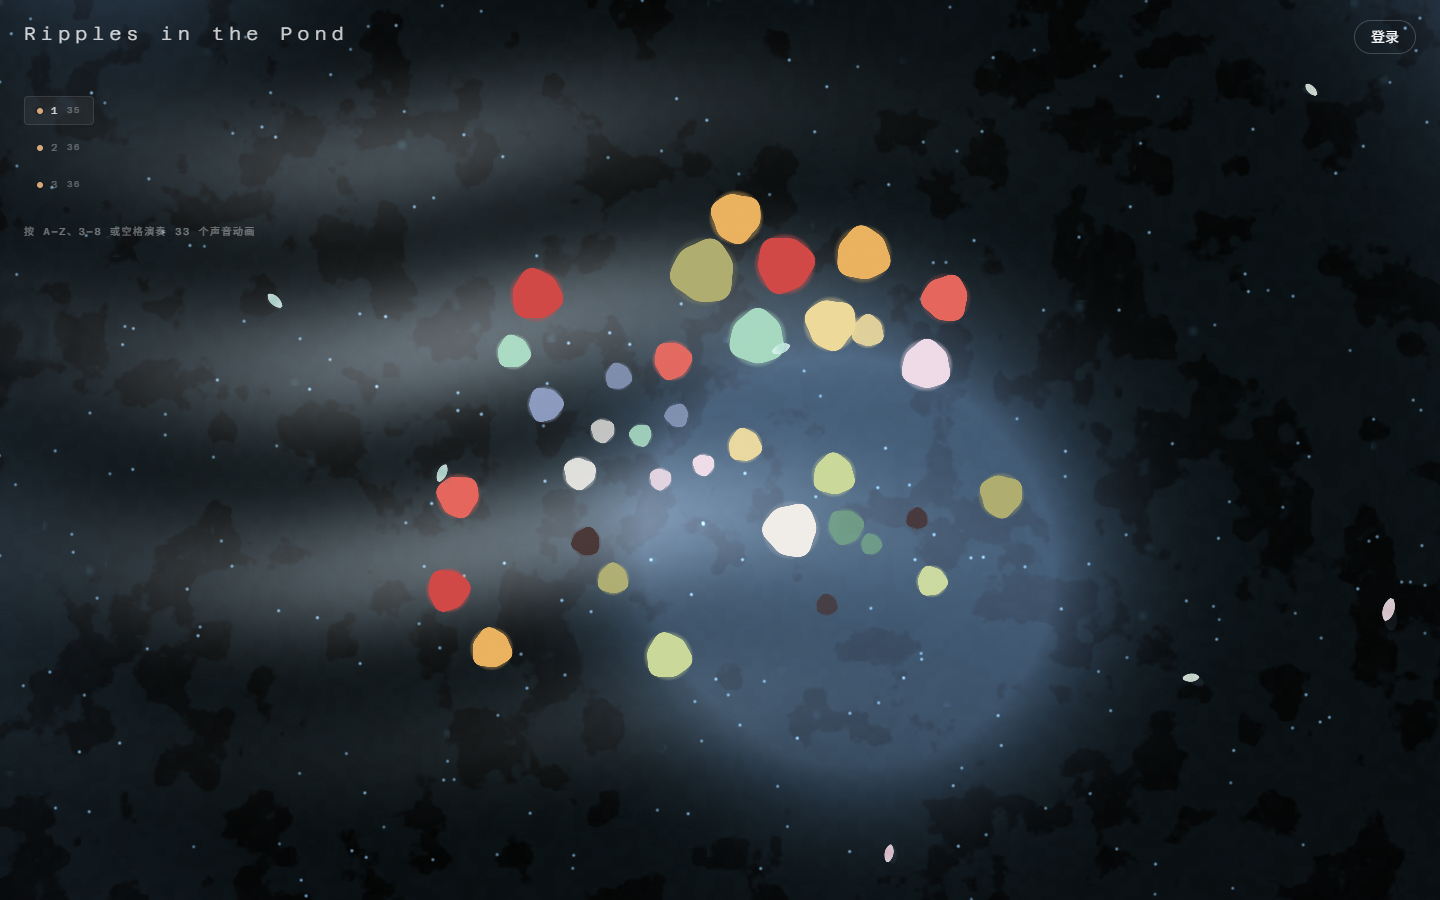
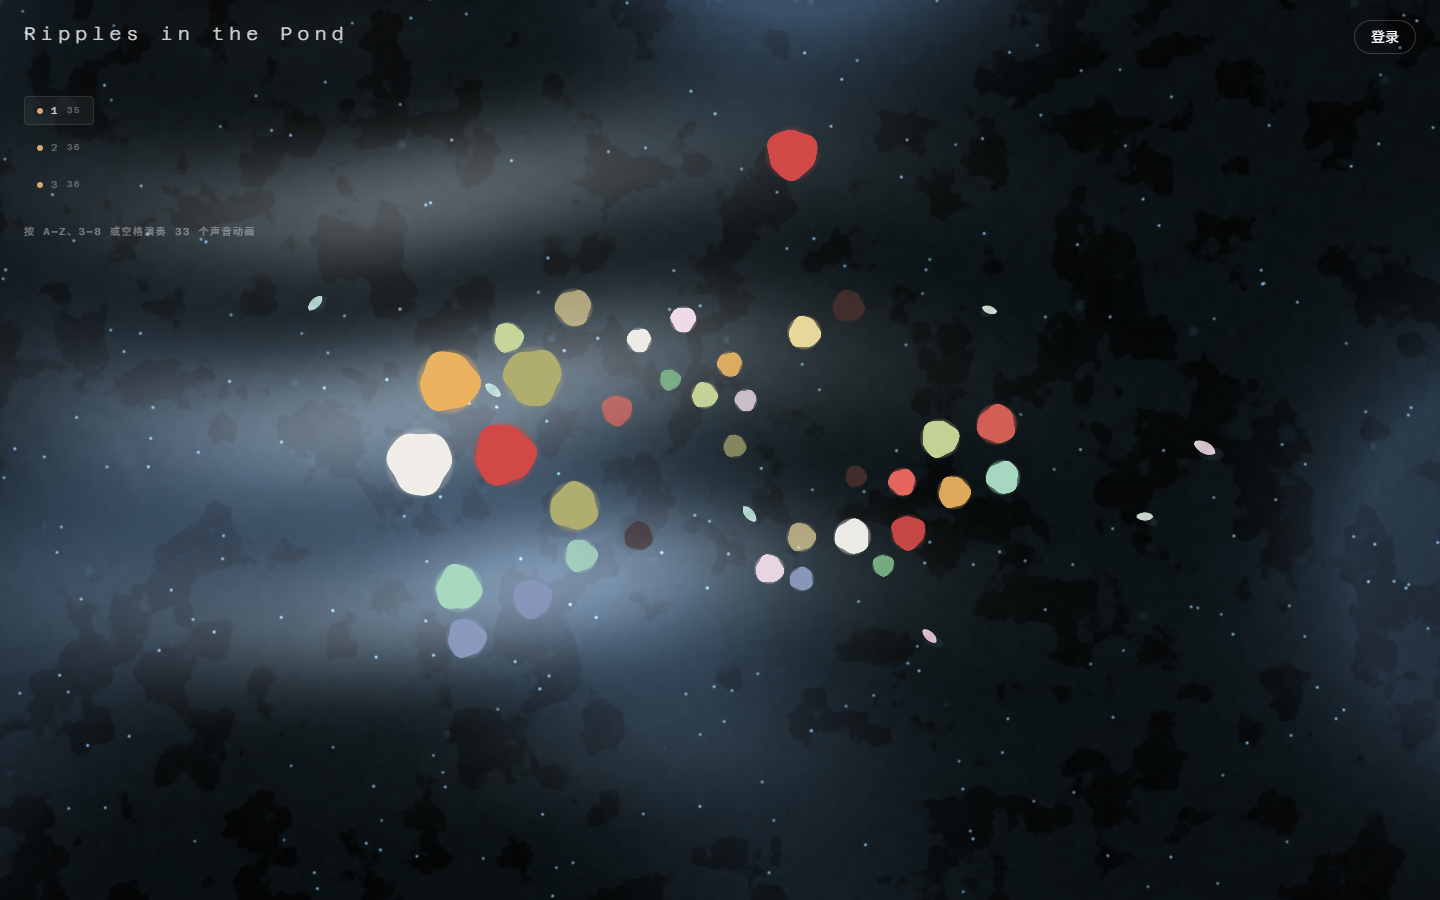
docs(P9): 正式封存阶段并补齐最终证据

diff --git a/STATUS.md b/STATUS.md
@@ -18,7 +18,7 @@
   - **Phase 14** = 混音系统 + RemixNFT
   - **Phase 15** = 音效系统扩展
   - **Phase 16** = 原生钱包 + 多链 / ETH Mainnet（往后排）
-**P9 系统性 Review 最终稿**：`reviews/2026-09-01-phase-9-final-review.md`（交叉复核 DeepSeek v4 Pro、Kimi K3 与当前代码。原结论为 0 P0、3 P1、8 P2、6 P3；E“引力透镜轨道”与 R“花瓣原地炸裂”按用户拍板作为当前真值。Review Fix Pack A+B+C 已在 v4.2 全部完成，最终生产证据见 `reviews/2026-09-01-phase-9-v4-2-final-gate.md`。）
+**P9 最终完成 Review**：`reviews/2026-09-05-phase-9-completion-review.md`（阶段结论：33 键 / 33 唯一音效 / 33 生产动画，0 个 P9 遗留项，正式封存。2026-09-01 的系统性 review 与 Fix Pack 清单只保留为历史输入，最终生产证据见 `reviews/2026-09-01-phase-9-v4-2-final-gate.md`。）
 **P8 综合系统性 Review**：`reviews/2026-08-25-phase-8-consolidated-review.md`（汇总 Kimi K3 + Codex 并完成交叉验证；严格排除其他 Phase、媒体与 commit 收束。结论：0 个 P0、3 个 P1、7 个 P2。**3 个 P1、7 个 P2、死文件、文档契约、双树清单与自动浏览器回归均已完成**：专项代码与每步完整 `verify.sh` 全绿；Edge 实测四路由、fallback/context、wheel、拖拽取消、键盘、reduced-motion、横竖屏、DPR `2→1.5→2` 与 waterFx 连续切换全部通过。证据见 `reviews/2026-08-26-phase-8-browser-regression.md` 与 `reviews/2026-08-26-phase-8-dual-tree-inventory.md`。**2026-08-26 用户已确认 R3 与 L 线“活而不乱”最终目验通过，并明确让当前 `/test3` 替代首页；默认 `/` 已切为 GL 水塘，沙盒工具仅留 `/test3`/`/test4`，旧 SVG 由 `/v1` 保留。**原始 Kimi 报告保留在 `reviews/2026-08-25-phase-8-review.md`。）
 **P7 Completion Review**: `reviews/2026-05-16-phase-7-completion-review.md`（commit `5a2211a`，结论：Phase 7 完结，deferred 项挂 Phase 10）
 **P7 三方 review**：`reviews/2026-05-13-phase-7-playbook-review.md`（Claude 自审 + 2 个 Codex review，16 项必修已全部落地）
@@ -26,7 +26,7 @@
 **P6 Smoke Test**: `reviews/2026-05-08-phase-6-completion-smoke-test.md`（16/19 通过 + 0 P0 + 0 P1）
 **stakeholder 反馈**：艺术家 5 条反馈已收到（→ Phase 8）；投资人催 Semi demo（→ P7 Track B PoC-only）
 
-**P9 完成（2026-09-01）**：v4.2 Review Fix Pack A+B+C 已部署 Production，生产注册表收束为 33 键/33 音效/33 动画；`/` 与 `/test3` 共用同一 P9 演奏层，首页不显示 P9 状态浮窗，调参面板仍只留在 `/test3`。静态审计、浏览器 33 键扫描、复音/回收/reduced-motion/60 FPS 压测、合并后完整 `scripts/verify.sh` 和 `pond-ripple.xyz` 线上冒烟全绿，证据见 `reviews/2026-09-01-phase-9-v4-2-final-gate.md`。后续新增体感反馈按独立热修处理，不再占阶段 Next。
+**P9 正式封存（2026-09-05）**：v4.2 Review Fix Pack A+B+C、Track C 清理、首页同步和 Production 发布全部完成；生产注册表为 33 键/33 唯一音效/33 动画。`/` 与 `/test3` 共用演奏层，首页不显示 P9 状态浮窗，调参面板只留在 `/test3`。2026-09-05 再次完成静态审计和 `pond-ripple.xyz` 线上真实键盘冒烟，P9 遗留项为 0；后续反馈按独立热修处理，不再占阶段 Next。
 
 **P11 当前（2026-09-01）**：P11-0 盘点与完整 playbook 已完成，入口见 `playbook/phase-11/00-overview.md`，证据与 11 个界面层清单见 `reviews/2026-09-01-phase-11-design-inventory.md`。方向为“夜塘唱片册”；首页夜塘/P9 核心冻结；`/score/[id]` 采用 Decoder-first；`/artist` 暂以 108 首长期项目为主角。**下一步：先处理 Decoder-first 与 `docs/ARCHITECTURE.md` 现有 inline `ScorePlayer` 规则的冲突；未获得明确架构同步授权前，不进入 P11-B 代码。**
 
@@ -239,6 +239,12 @@
 - `app/api/` 硬线豁免缺失：hook 只认 `src/app/api/`，当前 app/api/ 接近 8 上限，新 route 考虑复用现有子目录（见 S5.c 放 `cron/queue-status/`）
 
 ## 上次成功验证
+
+- 验证: **P9 最终收尾、证据复验与阶段封存完成**
+- 时间: 2026-09-05
+- 改动: 建立 P9 唯一最终入口与 completion review；历史 playbook/review 标注为归档；刷新可复现静态审计、生产截图和真实键盘冒烟证据。
+- 验证证据: 33 键/33 唯一音效/33 动画、20 个独立效果/13 个日食效果、月光写入 0；生产 `/`、`/test3`、`/api/ping` 均为 HTTP 200，K 键成功触发 FX11，非日食状态 A 键按契约拒绝，首页无 P9 浮窗与调参面板。
+- 下一步: **P9 无下一步；项目继续以 P11 的 Decoder-first 架构同步授权为唯一 Now。**
 
 - 验证: **工作树堆积收口 + P12 最终关闭 + P11 playbook 迁移完成**
 - 时间: 2026-09-01

diff --git a/reviews/2026-09-05-phase-9-completion-review.md b/reviews/2026-09-05-phase-9-completion-review.md
@@ -1,0 +1,57 @@
+# Phase 9 Completion Review
+
+> 日期：2026-09-05
+> 范围：日食合奏 33 键动画的设计、实现、清理、首页同步、部署与封存
+> 最终裁决：**Phase 9 完成，0 个未关闭阶段项**
+
+## 1. 关闭结论
+
+Phase 9 已从 45 个候选经过 v2/v3/v4 多轮用户目验，收束为 33 键、33 个唯一音效和 33 个生产动画。Review Fix Pack A+B+C、Track C 物理清理、首页同步、状态浮窗移除、完整工程 Gate、Production 部署和生产复验均已完成。
+
+旧 review 中的 3 个 P1、8 个 P2、6 个 P3 是 2026-09-01 v4.1 的修复输入，不是现存缺陷。它们已由 v4.2 的参数接线、运行时稳定性、物理清理和最终证据逐项关闭。
+
+## 2. 最终数量账本
+
+| 项目 | 最终值 | 证据 |
+|---|---:|---|
+| 生产 registry | 33 | `static-audit.json` |
+| 唯一 sound key | 33 | registry 静态审计 |
+| 唯一 MP3 内容 | 33 | SHA-256 静态审计 |
+| 日食依赖 | 13 | registry 静态审计 |
+| 无音乐独立效果 | 20 | 静态 + 浏览器扫描 |
+| 月光写入 | 0 | registry 静态审计 |
+| 水面写入键 | 3 | T/U/V |
+| 正式路由 | 2 | `/` 与 `/test3` 共用 P9 |
+
+## 3. 连续演奏与性能证据
+
+- 播放音乐后 33/33 键 accepted，动画 ID 33/33 unique。
+- B 六批完整并行；V 五浪；FX44 五簇；R 峰值 5 场且结束后归零。
+- X/6 连击使用独立补充声部，不把衰退包络拉回峰值。
+- H/3 共用 180ms 全屏重音冷却，8 不受阻塞，声音不被视觉冷却吞掉。
+- 浏览器 121 帧只推进 122 次 P9 采样，五个消费者不重复推进状态机。
+- reduced-motion 空间位移比例约 22%，生命周期与回收保持正常。
+- 压力测试结束后 voice 与 burst field 均为 0；前台 `60.24 FPS`；控制台异常 0。
+
+## 4. 生产与 2026-09-05 复验
+
+- P9 实现提交：`b4a0894`；最终证据提交：`bce3171`。
+- Vercel Production 部署已成功，首页与 `/test3` 均返回 HTTP 200，`/api/ping` 返回 `ok=true`。
+- 2026-09-05 当前生产提交 `0c01dd6` 的 GitHub deployment `6194128487` 明确为 Production。
+- 当日重新运行静态审计：registry 33、sounds 33、13/20 门控、月光 0、水面 T/U/V，全部通过。
+- 当日真实浏览器复验：首页 HUD=false、调参面板=false、33 动画提示存在；K→FX11 accepted，A→FX01 `no-eclipse`；Runtime/console error=0。
+- 当日隔离工作树完整执行 `bash scripts/verify.sh`：TypeScript、ESLint、代码/目录硬线、危险模式、33/33 静态页生产构建和 Forge 42/42 全部通过；ESLint 只有 3 条既有 warning、0 error。
+
+## 5. 善后审计
+
+- 生产源码不存在 `P9ReviewHUD`、`p9-direction-lab` 或旧 `key-fx` 文件。
+- 12 个淘汰候选只留在历史 playbook/review，不再进入 registry、面板或消费者。
+- P9 过程截图和原始参考素材保持本地归档并由 Git 忽略；`reviews/evidence/p9-v4-2/` 是唯一入库的 P9 最终证据目录。
+- 旧 v1/v2/v3/v4 review 与 playbook 已加归档标识，避免把历史“等待目验/等待 Track C”误读为当前任务。
+- 最终执行入口为 `playbook/phase-9/04-final-closure.md`；未来 P9 回归使用独立热修，不重开 Phase 9。
+
+## 6. 未关闭项
+
+**无。**
+
+后续用户提出的审美调整属于新一轮产品迭代；新增声音、键位或视觉家族进入后续 Phase，不计作本阶段欠账。

diff --git a/playbook/phase-9/04-final-closure.md b/playbook/phase-9/04-final-closure.md
@@ -1,0 +1,58 @@
+# Phase 9 — 最终封存说明
+
+> 封存日期：2026-09-05
+> 生产页面：`https://pond-ripple.xyz/`
+> 阶段状态：**完成，不再有 P9 待办**
+
+## 1. 唯一最终真值
+
+- 物理输入：`A–Z + 3–8 + Space`，恰好 33 键。
+- 声音：`public/sounds/` 恰好 33 个 MP3，SHA-256 内容互不重复。
+- 动画：生产 registry 恰好 33 项，每个 sound key 唯一映射一个 FX。
+- 日食门控：20 个独立效果无音乐可演奏；13 个日食依赖效果无音乐时只跳过视觉，声音照常播放。
+- 环境边界：月光写入为 0；水面写入只允许 T/U/V。
+- 路由：`/` 与 `/test3` 共用同一 P9 runtime、registry、消费者和参数存档。
+- UI：首页不显示 P9 状态 HUD 或调参面板；`/test3` 保留参数面板。
+
+最终映射、参数和七类重触发语义以 `03-v4-33-key-audiovisual-remap.md` §12 为准。
+
+## 2. 已完成的工程收束
+
+- Review Fix Pack A：参数真值、存档迁移、V/5 上限、Y 阻尼和文档合同已统一。
+- Review Fix Pack B：X/6 补充声部、H/3 全局冷却、R 场回收、FX44 独立群落、同帧采样缓存和 reduced-motion 已完成。
+- Review Fix Pack C：12 个冻结候选、旧 `key-fx` 总线、方向实验状态、失效模式和无消费者参数已物理退出生产源码。
+- P9 状态浮窗已删除；`/test3` 调参工具与首页生产 UI 已分离。
+- 历史过程证据退出 Git；仓库只保留 v4.2 最终静态、浏览器、压力和生产证据。
+
+## 3. 最终证据索引
+
+- Fix Pack 前交叉审查：`reviews/2026-09-01-phase-9-final-review.md`（历史输入，不是当前待办）。
+- v4.2 Gate：`reviews/2026-09-01-phase-9-v4-2-final-gate.md`。
+- 阶段完成裁决：`reviews/2026-09-05-phase-9-completion-review.md`。
+- 机器证据：`reviews/evidence/p9-v4-2/`。
+- 生产实现提交：`b4a0894`；合并与证据链：`2c91db0`、`7bedccd`、`fe179b0`、`bce3171`。
+
+## 4. 冻结边界
+
+以下事项不再作为 P9 待办：
+
+- 不恢复 45/43/42 键的历史中间态。
+- 不恢复 Shift 第二层动画、旧 `key-fx` 总线或 `P9ReviewHUD`。
+- 不因旧 review 的 P1/P2 清单重复执行已经完成的 Fix Pack。
+- 不把调参面板带到首页，也不让普通按键写月光。
+- 不清除用户浏览器已保存的 P9 参数；存档继续按现有迁移合同读取。
+
+未来明确的回归缺陷使用独立 `fix(P9)` 热修；新声音、新键位或新视觉家族进入后续 Phase。任何热修都必须重跑 33 映射、20/13 门控、连击回收、reduced-motion 和生产浏览器冒烟。
+
+## 5. 完成清单
+
+- [x] 用户逐轮审美拍板完成。
+- [x] 33 键、33 音效、33 动画一一对应。
+- [x] 连击、并行、冷却、回收和 reduced-motion Gate 通过。
+- [x] Track C 物理清理完成。
+- [x] `/test3` 同步到 `/`，测试 HUD 从生产 UI 退出。
+- [x] 完整工程验证通过。
+- [x] Vercel Production 部署成功。
+- [x] 2026-09-05 静态真值与生产浏览器复验通过。
+- [x] 历史 playbook/review 已标明归档身份。
+- [x] `STATUS.md`、`TASKS.md`、JOURNAL 与 LEARNING 已同步。

diff --git a/docs/ERRORS.md b/docs/ERRORS.md
@@ -535,3 +535,12 @@
 - 🧠 原因：目录包含 Edge profile、扩展与依赖缓存，部分文件仍受 Windows 进程或权限保护；不是 Git 数据损坏。
 - 🔧 处理：不强删、不换 shell 绕过；只保留可读盘点文档，并把原始缓存目录加入 Git 忽略。其余未占用的 Phase 13 草稿、P9 过程证据和工具记忆按精确路径移动成功。
 - 💡 临时目录的目标是退出版本控制，不一定要物理消失；被系统占用时“保留并忽略”比强制清空更安全。
+
+### E041 — P9 生产冒烟复用浏览器且等待了错误的就绪信号
+
+- 📅 2026-09-05 / P9 最终封存复验
+- 😱 现象：第一次冒烟误连到已有 Edge 实例，随后新实例又因为等待音乐圆按钮而超时；生产页面与接口实际均为 HTTP 200。
+- 🧠 原因：脚本只偏好 localhost 页面，并把音乐按钮是否出现当作 P9 演奏层就绪条件；这两项都不是生产首页的稳定契约。
+- 🔧 修复：按生产域名优先选择 CDP 页面，并以页面出现“33 个声音动画”作为演奏层就绪信号；部署 SHA 改由环境变量注入，脚本不再写死历史版本。
+- ✅ 结果：独立无扩展 Edge 中 K→FX11 成功、A 在无日食时按契约拒绝，首页浮窗与调参面板均不可见，控制台错误为 0。
+- 💡 端到端夹具应等待产品契约而非偶然 DOM，并显式绑定目标域名和被测版本。

diff --git a/playbook/phase-9/00-overview.md b/playbook/phase-9/00-overview.md
@@ -1,6 +1,8 @@
 # Phase 9 — 日食合奏按键动画（45 候选批量制作版）
 
-> **来源**：2026-08-25 用户拍板。本文件取代 P9 早期“先做一个代表家族再扩展”的执行节奏，成为 P9 当前权威 playbook。
+> **归档状态（2026-09-05）**：本文件只保留 Track A 的历史基线，不再是执行入口。Phase 9 已按 33 键生产方案完成、上线并正式封存；最终真值见 `04-final-closure.md`，最终证据见 `reviews/2026-09-05-phase-9-completion-review.md`。
+
+> **来源**：2026-08-25 用户拍板。本文件曾取代 P9 早期“先做一个代表家族再扩展”的执行节奏。
 > **目标**：先在 `/test3` 一口气实现全部 45 个动画候选，再由用户集中审阅、删改，最后收盘冻结正式按键动画。
 > **三段式契约**：Track A = 全部做出；Track B = 用户审阅与修改；Track C = 清理、定稿与冻结。
 > **2026-08-26 状态**：Track A 已完成；Track B 的当前施工权威已切到 `01-v2-shared-state-optimization.md`，本文件保留基线、红线和历史映射。

diff --git a/reviews/2026-09-01-phase-9-v4-2-final-gate.md b/reviews/2026-09-01-phase-9-v4-2-final-gate.md
@@ -2,7 +2,7 @@
 
 > 日期：2026-09-01  
 > 范围：P9 最终 review Fix Pack A+B+C、`/test3` → `/` 同步、P9 状态浮窗移除  
-> 结论：**本地工程与浏览器 Gate 全部通过，可以提升生产**
+> 结论：**工程、浏览器、Production 部署与线上复验全部通过；Phase 9 已封存**
 
 ## 最终结论
 
@@ -81,6 +81,7 @@
 - 首次 `7bedccd` 因同一 SHA 先推功能分支，被 Vercel 去重为 Preview；没有把 Preview 成功误判为生产上线。
 - 专用生产触发提交：`fe179b0870dae85394ac7cbe42fac6ca3ddec095`。
 - GitHub deployment：`6188616947`，environment=`Production`，Vercel 状态 `success`。
+- 最终证据提交：`bce3171`，Production deployment `6188729393`；2026-09-05 在当前生产 `0c01dd6` 上复验仍通过。
 - `https://pond-ripple.xyz/`：HTTP 200，部署后 `Age: 0`、`X-Vercel-Cache: PRERENDER`。
 - `https://pond-ripple.xyz/test3`：HTTP 200；`/api/ping`：`ok=true`。
 

diff --git a/TASKS.md b/TASKS.md
@@ -246,6 +246,8 @@ findings 状态更新：`reviews/phase-6-findings-tracker.md`（7 项 deferred-j
 
 ## ✅ Done
 
+- **[Phase 9 最终封存]** ✅ 完成（2026-09-05）— 33 键 / 33 唯一音效 / 33 生产动画已通过最终静态审计、浏览器压力 Gate、首页同步、Production 发布与线上复验；P9 遗留项为 0，后续体感反馈转独立热修或新阶段。
+
 - **[Phase 7 Track A A2]** ✅ 完成（2026-05-15）— AirdropNFT v2 加 `_uriSet` 防 MINTER 私钥泄露后改 metadata：
   - **合约改动**：`contracts/src/AirdropNFT.sol` 复制 ScoreNFT v2 那 7 行 `_uriSet` mapping + setTokenURI `require(!_uriSet[tokenId])` + 标 `_uriSet[tokenId]=true`
   - **测试**：`contracts/test/AirdropNFT.t.sol` 加 `testSetTokenURIOnlyOnce` — 首次 setTokenURI 成功 → 二次同 tokenId revert `"AirdropNFT: URI already set"` → URI 保持首次值；forge test 7/7（原 6 + 新 1）

diff --git a/playbook/phase-9/02-v3-retrigger-and-material-clarity.md b/playbook/phase-9/02-v3-retrigger-and-material-clarity.md
@@ -1,5 +1,7 @@
 # Phase 9 v3 — 连击连续性、物质因果与场景收口
 
+> **归档状态（2026-09-05）**：v3 施工与 Stop R 已结束，本文件只用于追溯重触发和物质因果设计；42 键中间态已被 v4.2 的 33 键生产真值取代。最终真值见 `04-final-closure.md`。
+
 > **来源**：2026-08-27 用户完成 P9 v2 Stop V 审阅，并确认五项讨论结论。
 > **权威性**：本文件接管 P9 下一轮施工；`00-overview.md` 保留 Track A 历史，`01-v2-shared-state-optimization.md` 保留 v2 基线与已完成证据。
 > **目标**：修复所有“衰退中重按瞬间回峰”和“同键只重播一个动画”的根因，建立按效果声明的重触发策略；同时完成基础场景修复、物质转化因果、颜色系统与第三轮逐键收口。

diff --git a/docs/LEARNING.md b/docs/LEARNING.md
@@ -714,6 +714,12 @@
 - **为什么**：仅凭部署日 smoke 会漏掉延迟暴露的 cron、队列或余额问题；仅凭当前健康又缺少永久部署与真实铸造证据。
 - **第一次出现**：P12 七天软启动最终 Review。
 
+### 阶段封存需要一个最终真值入口
+
+- **是什么**：为已经完成的阶段建立唯一 completion review，把旧需求、施工 playbook 和修复清单明确标成历史资料。
+- **为什么**：旧文档里的“待验证”如果没有被覆盖，后来的人会把已经上线的工作误判为未完成；最终入口把产品状态、证据和后续变更边界一次说清。
+- **第一次出现**：P9 最终封存，33 键生产真值与 0 遗留项统一落在 completion review。
+
 ---
 
 ## 🗓 历史归档

diff --git a/reviews/2026-09-01-phase-9-consolidated-review.md b/reviews/2026-09-01-phase-9-consolidated-review.md
@@ -1,5 +1,7 @@
 # Review 2026-09-01 — Phase 9 系统性审查（v4.1 当前态）
 
+> **历史审查（已关闭）**：本文记录的是 Fix Pack 之前的 v4.1 风险快照；其中 Track C 建议均已在 v4.2 完成。不得把本文的待办当成当前状态，最终裁决见 `2026-09-05-phase-9-completion-review.md`。
+
 > 用途：对 P9（33 键 / 33 音效 / 33 动画按键编舞）当前实现做一次性系统盘点，供用户决定是否进入 Track C 清理。
 > 本文只管 P9，不负责其他 Phase、首页迁移、生产提升或 commit。
 > 本次为只读审查：未修改任何代码、未重跑 verify.sh（STATUS 记录 2026-09-01 全绿，且工作区自那以后无代码改动）。
